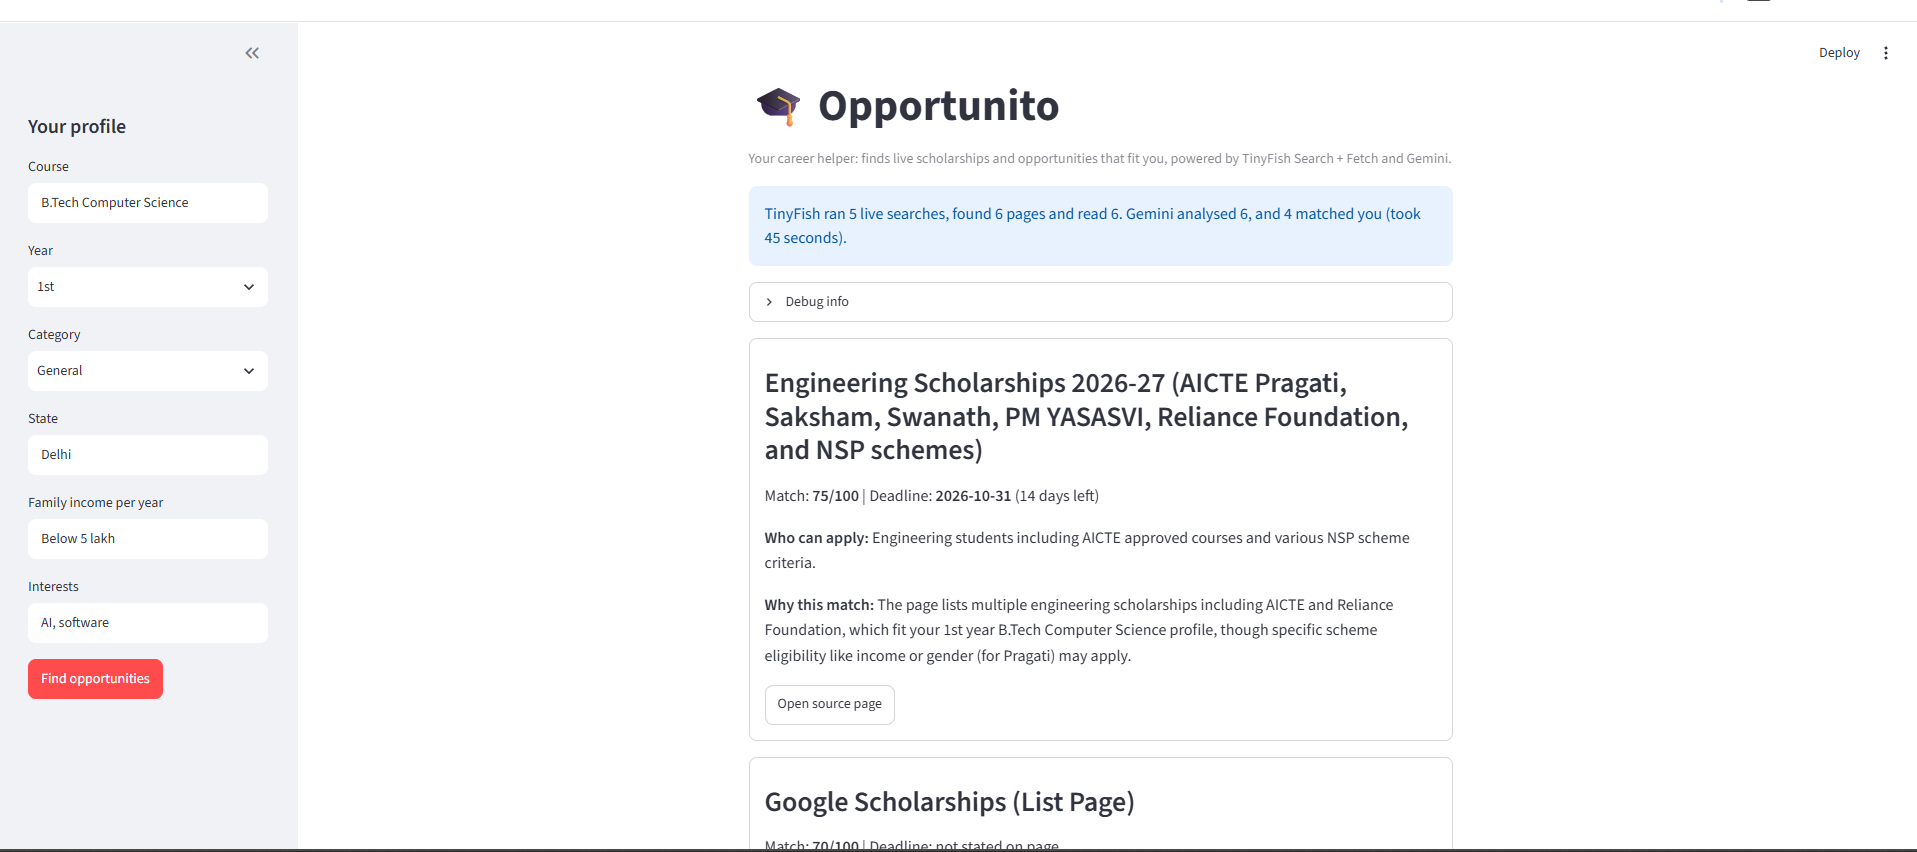
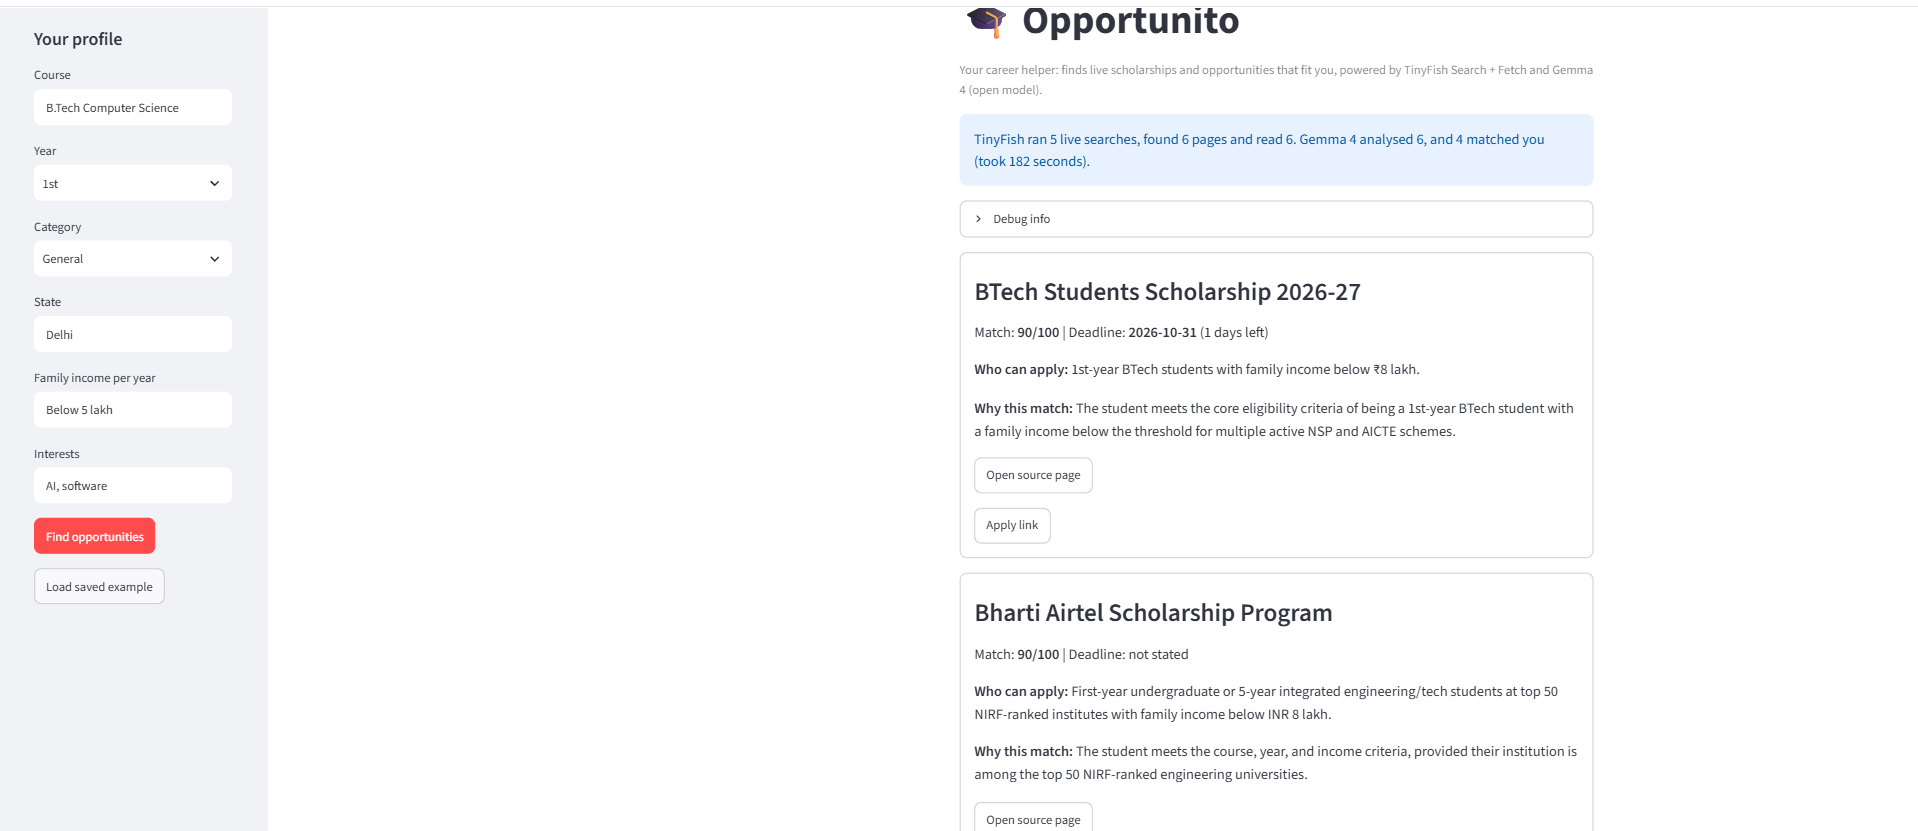
added license and screenshots

diff --git a/readme.md b/readme.md
@@ -138,11 +138,8 @@ The app opens in your browser at `http://localhost:8501`.
 ## Author
 
 Magan Shandilya
-laxmeswaram krishnam
-shaurya bhatnagar
-shubham jaiswal
 University School of Information, Communication and Technology(GGSIPU)
 https://github.com/magan69
 
-Built for AZINHACK '26.
+Built for HACTOBERFEST HACKATHON.
 
